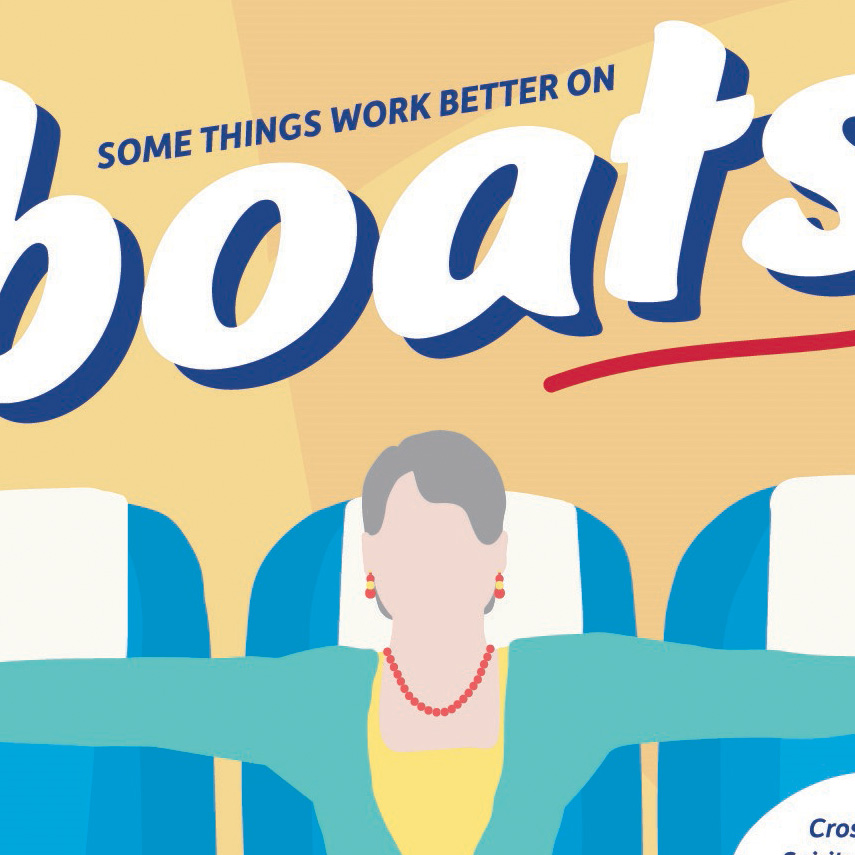
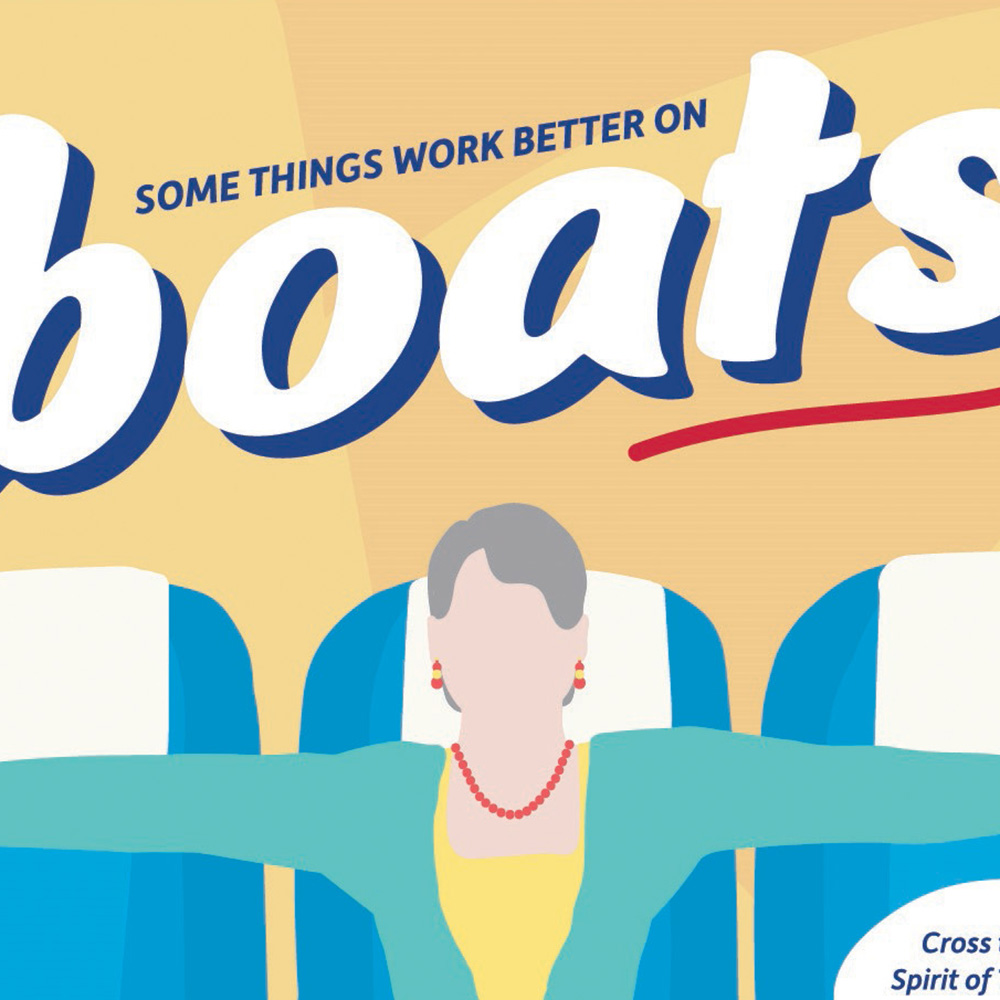
pic sizes

diff --git a/index.html b/index.html
@@ -84,7 +84,7 @@
 
     <div class="object">
       <a href="talk-show.html">
-        <img src="projects/king-1.png" alt="">
+        <img src="projects/king-1.jpg" alt="">
         <div class="text">Talk show identitet</div>
       </a>
     </div>
